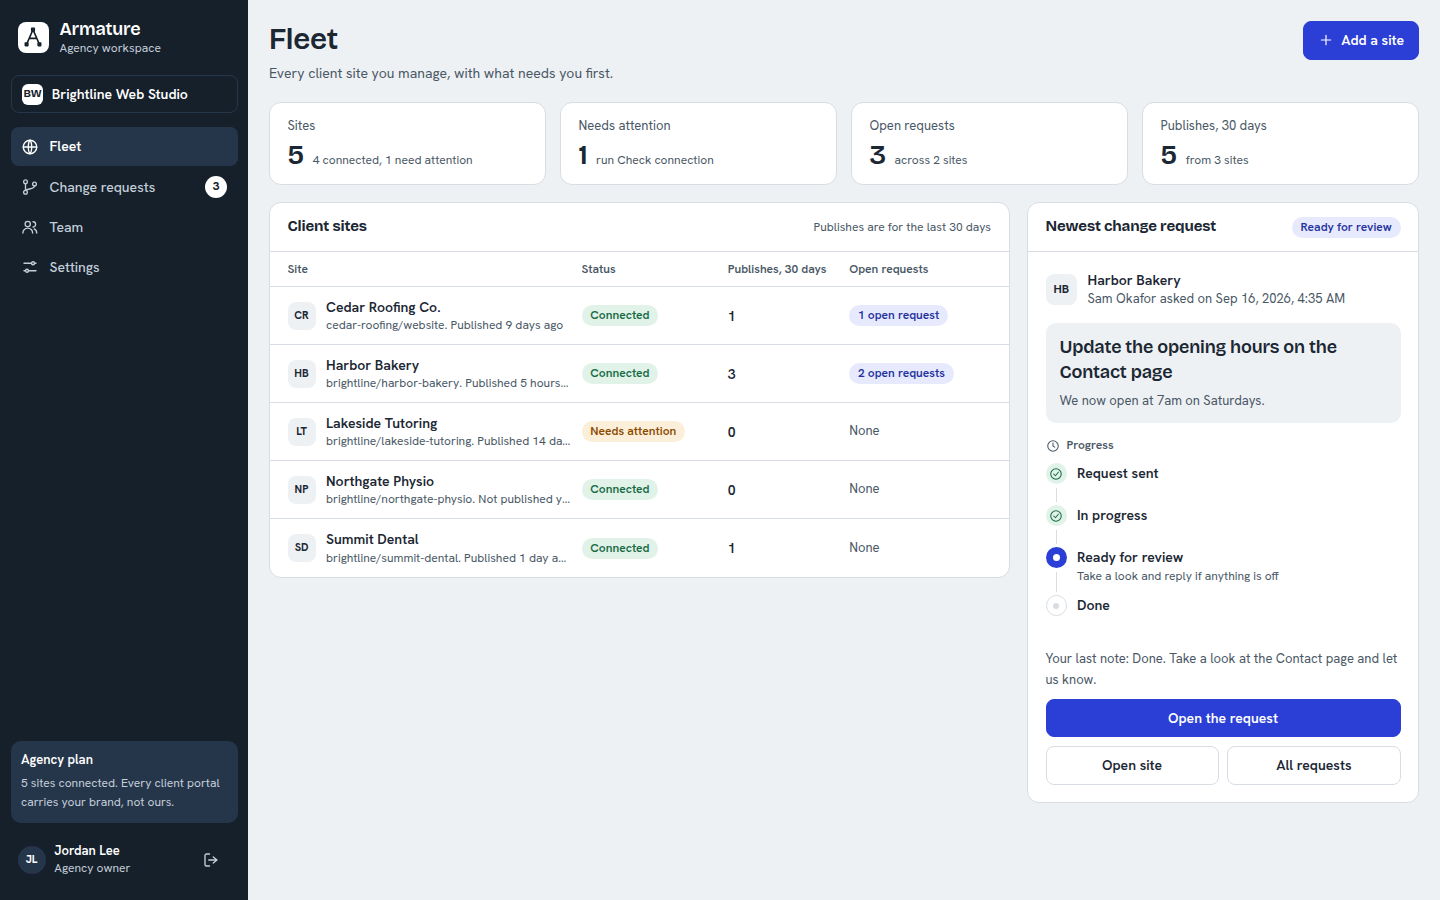
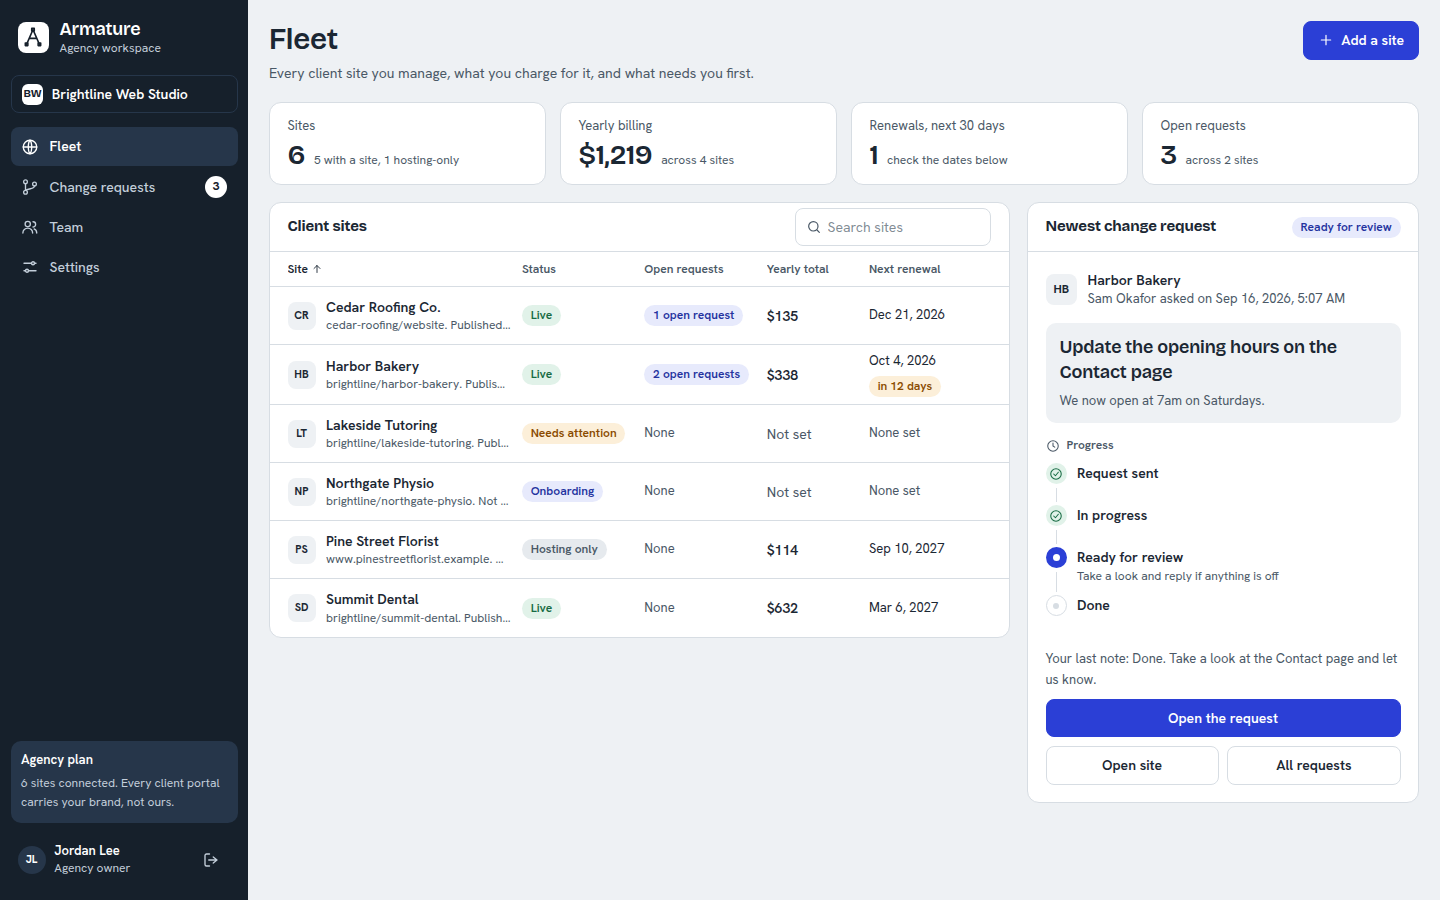
Docs: screenshots of Fleet billing and the Hosting & services panel
Fleet with yearly totals and renewals, the site overview with the
Hosting & services panel, its edit drawer with the live yearly total, a
hosting-only site, the Add a hosting-only client path, and the client
home (which shows no prices), at 1440x900 and 375x812.

Claude-Session: https://claude.ai/code/session_01EZsBdiVPbKDc3D5vU8YDgD

diff --git a/docs/screenshots/README.md b/docs/screenshots/README.md
@@ -18,6 +18,12 @@ edited), `agency-site-requests`, `agency-request-detail`, `agency-history`,
 `agency-site-team`, `agency-site-team-login` (Create client login with a generated
 password), `agency-github-setup`.
 
+Hosting and services (agency only): `agency-site-services` (the Hosting & services panel on a
+site overview), `agency-site-services-edit` (its edit drawer with the live yearly total),
+`agency-site-hosting-only` (a hosting-only site with Connect repository),
+`agency-add-site-hosting-only` (the Add a hosting-only client path). Fleet shows the yearly
+totals and renewals.
+
 Client screens (the agency's portal name, never Armature): `client-home`,
 `client-home-menu`, `client-pages`, `client-editor`, `client-requests`,
 `client-request-detail`, `client-request-new`, `client-history`, `client-account`,
